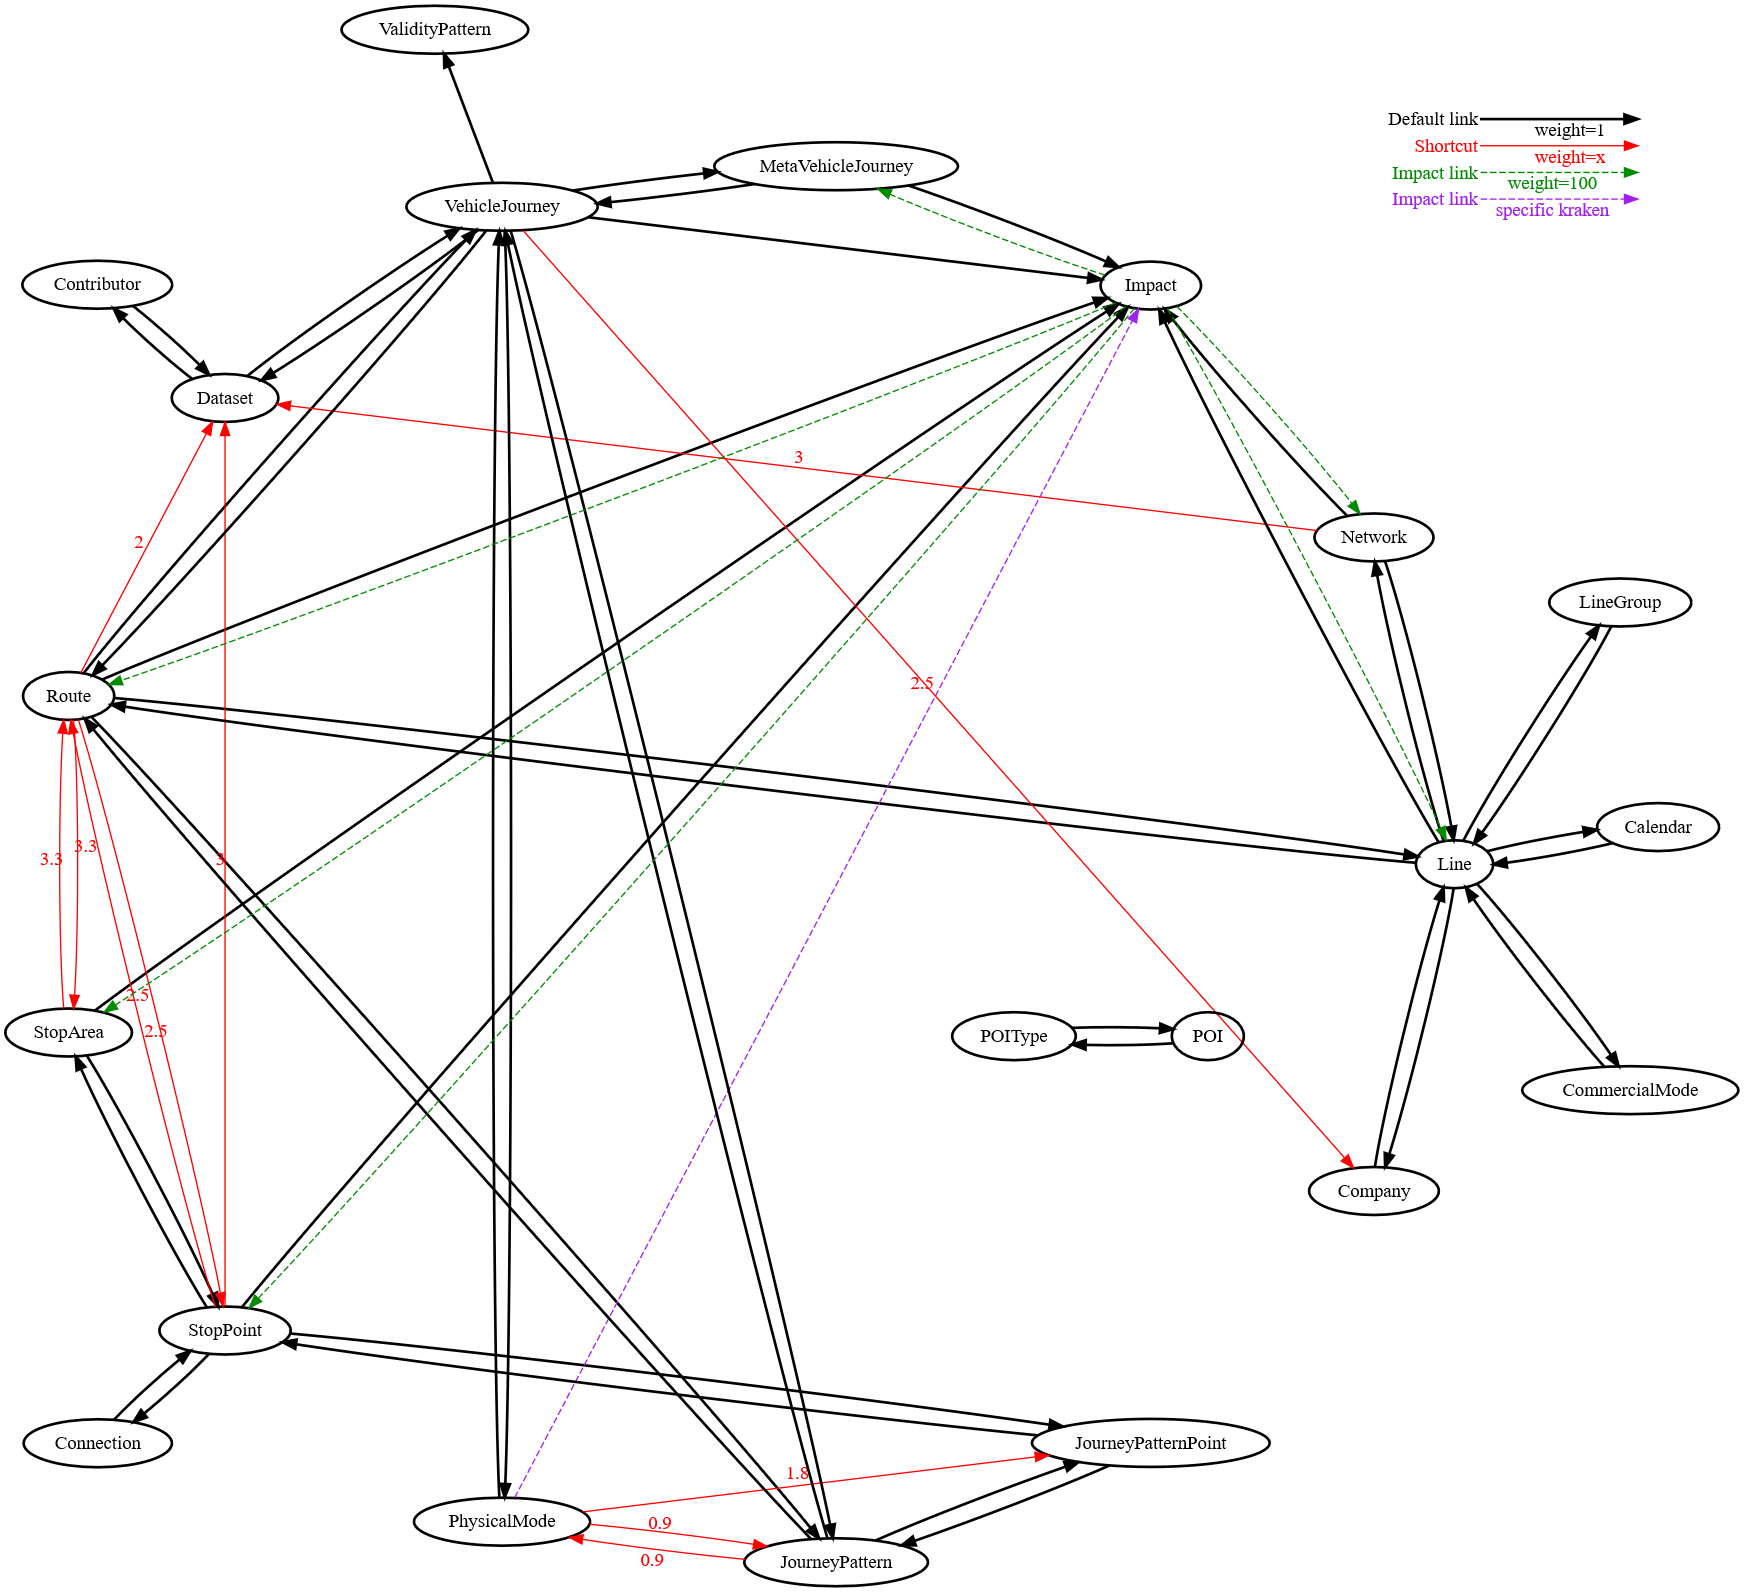
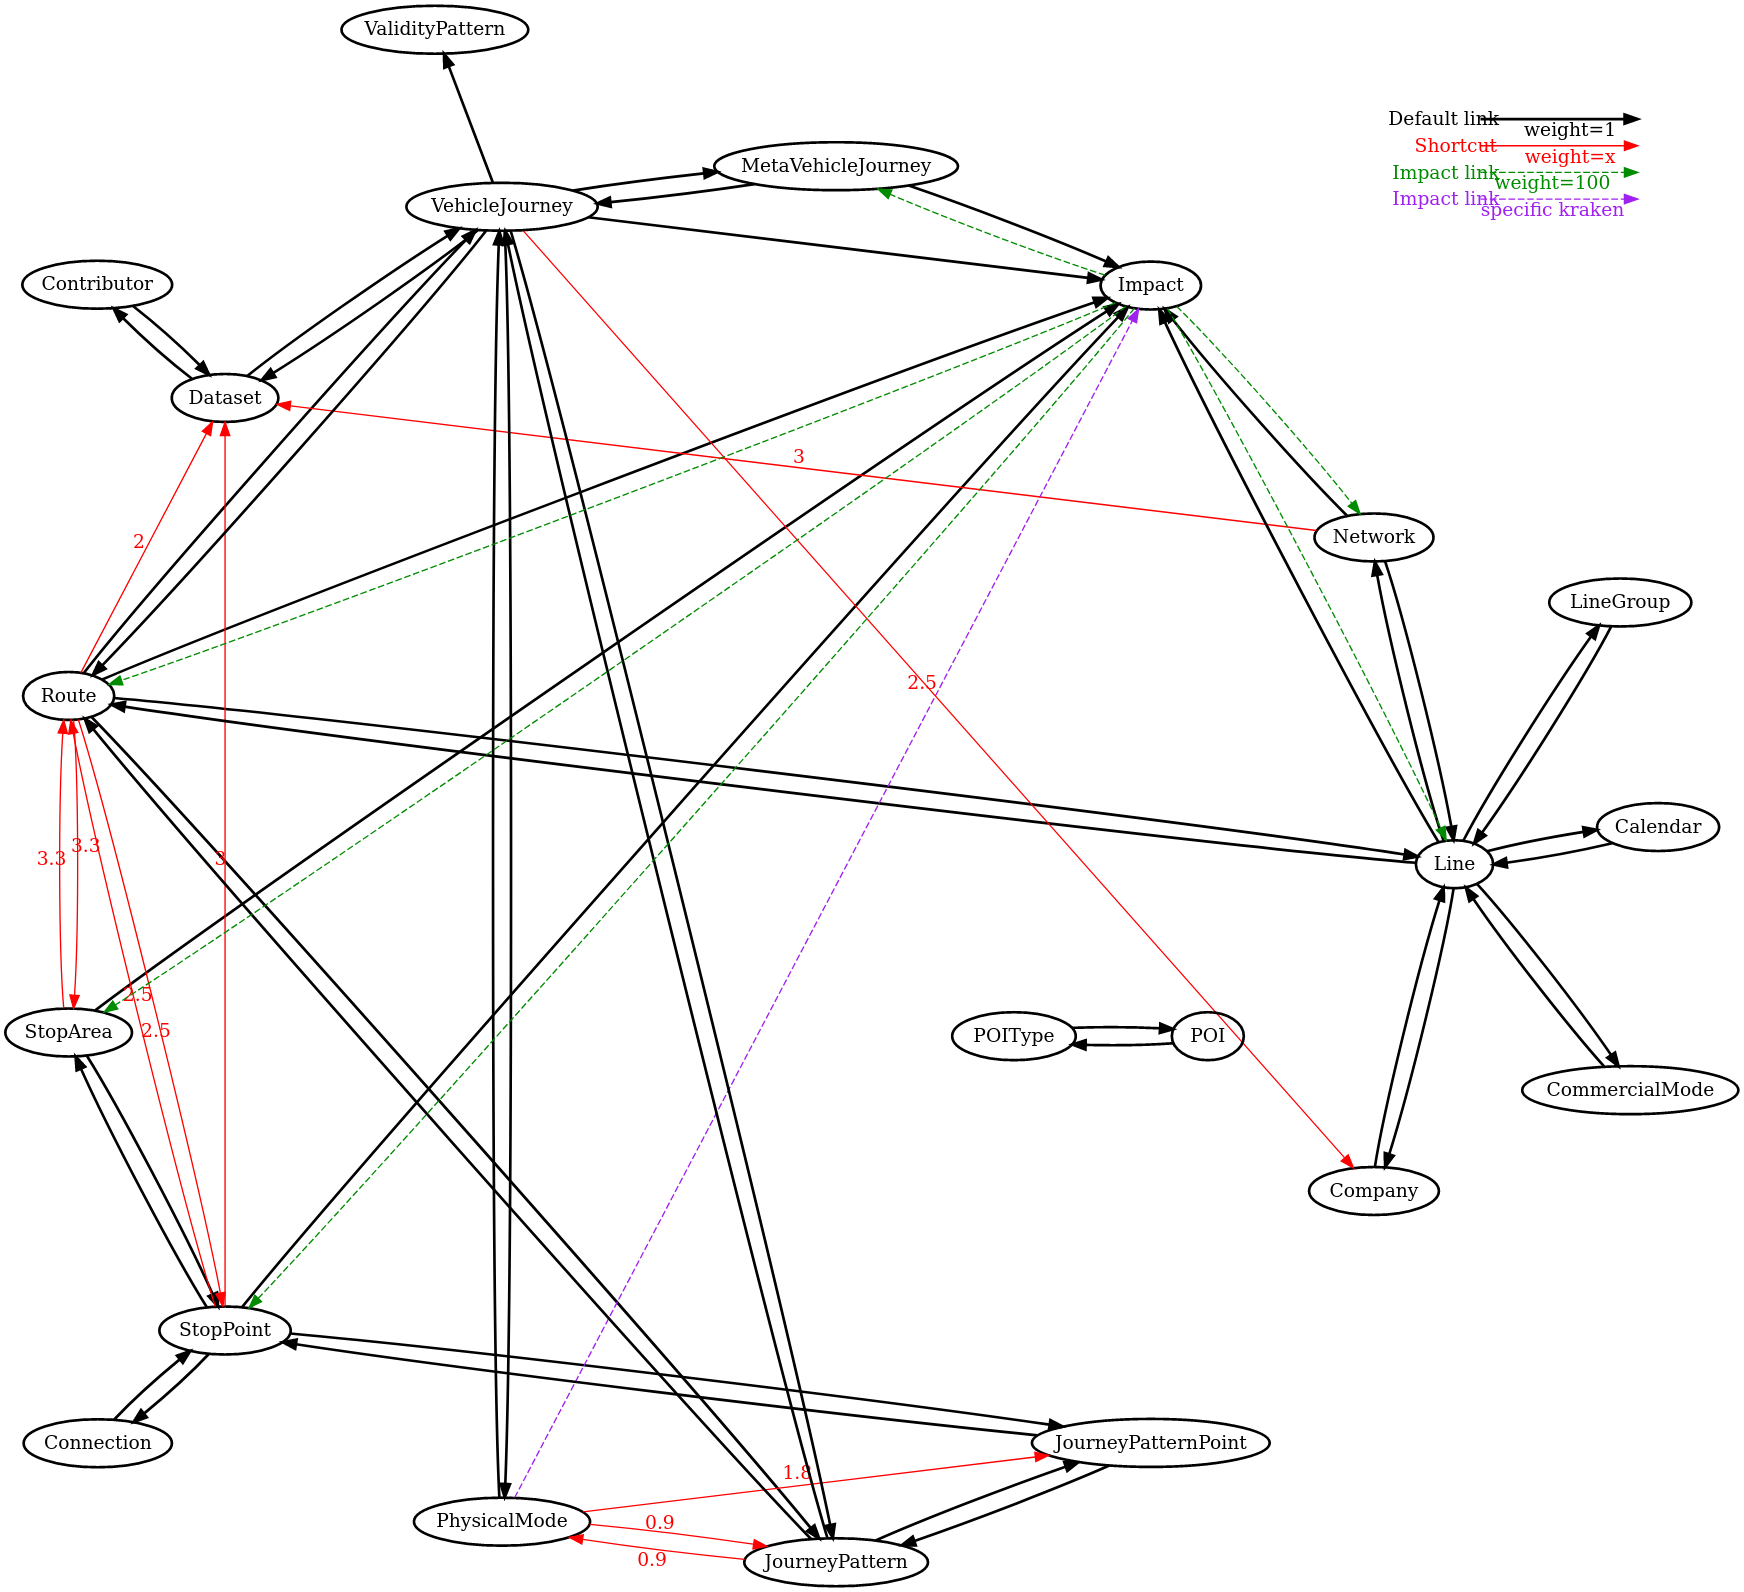
Diagram as well as link for ptref_grammar updated

diff --git a/documentation/rfc/ptref_grammar.md b/documentation/rfc/ptref_grammar.md
@@ -174,7 +174,8 @@ The graph is as follow (edges may have weight to avoid unwanted behavior):
 
 ![pt_graph](../diagrams/pt_graph.png)
 
-[edit_graph](https://dreampuf.github.io/GraphvizOnline/#%0Adigraph%20G%20%7B%0A%20%20%20%20layout%3D%22circo%22%0A%20%20%20%20subgraph%20cluster_0%20%7B%0A%20%20%20%20%20%20%20%20node%20%5Bstyle%3D%22bold%22%5D%0A%20%20%20%20%20%20%20%20edge%20%5Bstyle%3D%22bold%22%5D%0A%0A%20%20%20%20%20%20%20%20StopArea%20-%3E%20Route%20%5Blabel%3D%223.3%22%20fontcolor%3D%22red%22%20color%3D%22red%22%20style%3D%22normal%22%5D%0A%20%20%20%20%20%20%20%20StopArea%20-%3E%20StopPoint%0A%20%20%20%20%20%20%20%20Network%20-%3E%20Line%0A%20%20%20%20%20%20%20%20Company%20-%3E%20Line%0A%20%20%20%20%20%20%20%20CommercialMode%20-%3E%20Line%0A%20%20%20%20%20%20%20%20PhysicalMode%20-%3E%20VehicleJourney%0A%20%20%20%20%20%20%20%20PhysicalMode%20-%3E%20JourneyPattern%20%5Blabel%3D%220.9%22%20fontcolor%3D%22red%22%20color%3D%22red%22%20style%3D%22normal%22%5D%0A%20%20%20%20%20%20%20%20PhysicalMode%20-%3E%20JourneyPatternPoint%20%5Blabel%3D%221.8%22%20fontcolor%3D%22red%22%20color%3D%22red%22%20style%3D%22normal%22%5D%0A%20%20%20%20%20%20%20%20Line%20-%3E%20CommercialMode%0A%20%20%20%20%20%20%20%20Line%20-%3E%20Company%0A%20%20%20%20%20%20%20%20Line%20-%3E%20Network%0A%20%20%20%20%20%20%20%20Line%20-%3E%20Route%0A%20%20%20%20%20%20%20%20Route%20-%3E%20JourneyPattern%0A%20%20%20%20%20%20%20%20Route%20-%3E%20Line%0A%20%20%20%20%20%20%20%20Route%20-%3E%20VehicleJourney%0A%20%20%20%20%20%20%20%20Route%20-%3E%20StopPoint%20%5Blabel%3D%222.5%22%20fontcolor%3D%22red%22%20color%3D%22red%22%20style%3D%22normal%22%5D%0A%20%20%20%20%20%20%20%20Route%20-%3E%20StopArea%20%5Blabel%3D%223.3%22%20fontcolor%3D%22red%22%20color%3D%22red%22%20style%3D%22normal%22%5D%0A%20%20%20%20%20%20%20%20JourneyPattern%20-%3E%20Route%0A%20%20%20%20%20%20%20%20JourneyPattern%20-%3E%20JourneyPatternPoint%0A%20%20%20%20%20%20%20%20JourneyPattern%20-%3E%20VehicleJourney%0A%20%20%20%20%20%20%20%20JourneyPattern%20-%3E%20PhysicalMode%20%5Blabel%3D%220.9%22%20fontcolor%3D%22red%22%20color%3D%22red%22%20style%3D%22normal%22%5D%0A%20%20%20%20%20%20%20%20VehicleJourney%20-%3E%20Route%0A%20%20%20%20%20%20%20%20VehicleJourney%20-%3E%20JourneyPattern%0A%20%20%20%20%20%20%20%20VehicleJourney%20-%3E%20Company%20%5Blabel%3D%222.5%22%20fontcolor%3D%22red%22%20color%3D%22red%22%20style%3D%22normal%22%5D%0A%20%20%20%20%20%20%20%20VehicleJourney%20-%3E%20PhysicalMode%0A%20%20%20%20%20%20%20%20VehicleJourney%20-%3E%20ValidityPattern%0A%20%20%20%20%20%20%20%20VehicleJourney%20-%3E%20MetaVehicleJourney%0A%20%20%20%20%20%20%20%20VehicleJourney%20-%3E%20Dataset%0A%20%20%20%20%20%20%20%20JourneyPatternPoint%20-%3E%20JourneyPattern%0A%20%20%20%20%20%20%20%20JourneyPatternPoint%20-%3E%20StopPoint%0A%20%20%20%20%20%20%20%20StopPoint%20-%3E%20StopArea%0A%20%20%20%20%20%20%20%20StopPoint%20-%3E%20JourneyPatternPoint%0A%20%20%20%20%20%20%20%20StopPoint%20-%3E%20Connection%0A%20%20%20%20%20%20%20%20StopPoint%20-%3E%20Route%20%5Blabel%3D%222.5%22%20fontcolor%3D%22red%22%20color%3D%22red%22%20style%3D%22normal%22%5D%0A%20%20%20%20%20%20%20%20Connection%20-%3E%20StopPoint%0A%20%20%20%20%20%20%20%20POIType%20-%3E%20POI%0A%20%20%20%20%20%20%20%20POI%20-%3E%20POIType%0A%20%20%20%20%20%20%20%20Line%20-%3E%20Calendar%0A%20%20%20%20%20%20%20%20Calendar%20-%3E%20Line%0A%20%20%20%20%20%20%20%20Line%20-%3E%20LineGroup%0A%20%20%20%20%20%20%20%20LineGroup%20-%3E%20Line%0A%20%20%20%20%20%20%20%20MetaVehicleJourney%20-%3E%20VehicleJourney%0A%20%20%20%20%20%20%20%20Dataset%20-%3E%20Contributor%0A%20%20%20%20%20%20%20%20Dataset%20-%3E%20VehicleJourney%0A%20%20%20%20%20%20%20%20Contributor%20-%3E%20Dataset%0A%20%20%20%20%20%20%20%20Route%20-%3E%20Dataset%20%5Blabel%3D%222%22%20fontcolor%3D%22red%22%20color%3D%22red%22%20style%3D%22normal%22%5D%0A%20%20%20%20%20%20%20%20StopPoint%20-%3E%20Dataset%20%5Blabel%3D%223%22%20fontcolor%3D%22red%22%20color%3D%22red%22%20style%3D%22normal%22%5D%0A%20%20%20%20%20%20%20%20Network%20-%3E%20Dataset%20%5Blabel%3D%223%22%20fontcolor%3D%22red%22%20color%3D%22red%22%20style%3D%22normal%22%5D%0A%20%20%20%20%20%20%20%20StopPoint%20-%3E%20Impact%0A%20%20%20%20%20%20%20%20Line%20-%3E%20Impact%0A%20%20%20%20%20%20%20%20Route%20-%3E%20Impact%0A%20%20%20%20%20%20%20%20StopArea%20-%3E%20Impact%0A%20%20%20%20%20%20%20%20Network%20-%3E%20Impact%0A%20%20%20%20%20%20%20%20VehicleJourney%20-%3E%20Impact%0A%20%20%20%20%20%20%20%20MetaVehicleJourney%20-%3E%20Impact%0A%20%20%20%20%20%20%20%20Impact%20-%3E%20Network%20%20%5Bstyle%3D%22dashed%22%20fontcolor%3D%22green4%22%20color%3D%22green4%22%5D%0A%20%20%20%20%20%20%20%20Impact%20-%3E%20Line%20%20%5Bstyle%3D%22dashed%22%20fontcolor%3D%22green4%22%20color%3D%22green4%22%5D%0A%20%20%20%20%20%20%20%20Impact%20-%3E%20Route%20%20%5Bstyle%3D%22dashed%22%20fontcolor%3D%22green4%22%20color%3D%22green4%22%5D%0A%20%20%20%20%20%20%20%20Impact%20-%3E%20StopArea%20%20%5Bstyle%3D%22dashed%22%20fontcolor%3D%22green4%22%20color%3D%22green4%22%5D%0A%20%20%20%20%20%20%20%20Impact%20-%3E%20StopPoint%20%20%5Bstyle%3D%22dashed%22%20fontcolor%3D%22green4%22%20color%3D%22green4%22%5D%0A%20%20%20%20%20%20%20%20Impact%20-%3E%20MetaVehicleJourney%20%20%5Bstyle%3D%22dashed%22%20fontcolor%3D%22green4%22%20color%3D%22green4%22%5D%0A%20%20%20%20%7D%0A%0A%20%20%20%20subgraph%20cluster_1%20%7B%0A%20%20%20%20%20%20%20%20%23rank%3Dsink%0A%20%20%20%20%20%20%20%20%23rankdir%3DLR%0A%20%20%20%20%20%20%20%20node%20%5Bshape%3Dplaintext%5D%0A%20%20%20%20%20%20%20%20style%3D%22filled%22%0A%20%20%20%20%20%20%20%20style%3Dfilled%0A%09%09color%3Dlightgrey%0A%20%20%20%20%20%20%20%20%23label%20%3D%20%22Legend%22%3B%0A%20%20%20%20%20%20%20%20key%20%5Blabel%3D%3C%3Ctable%20border%3D%220%22%20cellpadding%3D%222%22%20cellspacing%3D%220%22%20cellborder%3D%220%22%3E%0A%20%20%20%20%20%20%20%20%20%20%3Ctr%3E%3Ctd%20align%3D%22right%22%20port%3D%22i1%22%3E%3Cfont%20color%3D%22black%22%3EDefault%20link%3C%2Ffont%3E%3C%2Ftd%3E%3C%2Ftr%3E%0A%20%20%20%20%20%20%20%20%20%20%3Ctr%3E%3Ctd%20align%3D%22right%22%20port%3D%22i2%22%3E%3Cfont%20color%3D%22red%22%3EShortcut%3C%2Ffont%3E%3C%2Ftd%3E%3C%2Ftr%3E%0A%20%20%20%20%20%20%20%20%20%20%3Ctr%3E%3Ctd%20align%3D%22right%22%20port%3D%22i3%22%3E%3Cfont%20color%3D%22green4%22%3EImpact%20link%3C%2Ffont%3E%3C%2Ftd%3E%3C%2Ftr%3E%0A%20%20%20%20%20%20%20%20%20%20%3C%2Ftable%3E%3E%5D%0A%20%20%20%20%20%20%20%20key2%20%5Blabel%3D%3C%3Ctable%20border%3D%220%22%20cellpadding%3D%222%22%20cellspacing%3D%220%22%20cellborder%3D%220%22%3E%0A%20%20%20%20%20%20%20%20%20%20%3Ctr%3E%3Ctd%20port%3D%22i1%22%3E%26nbsp%3B%3C%2Ftd%3E%3C%2Ftr%3E%0A%20%20%20%20%20%20%20%20%20%20%3Ctr%3E%3Ctd%20port%3D%22i2%22%3E%26nbsp%3B%3C%2Ftd%3E%3C%2Ftr%3E%0A%20%20%20%20%20%20%20%20%20%20%3Ctr%3E%3Ctd%20port%3D%22i3%22%3E%26nbsp%3B%3C%2Ftd%3E%3C%2Ftr%3E%0A%20%20%20%20%20%20%20%20%20%20%3C%2Ftable%3E%3E%5D%0A%20%20%20%20%20%20%20%20key%3Ai1%3Ae%20-%3E%20key2%3Ai1%3Aw%20%5Blabel%3D%22weight%3D1%22%20style%3D%22bold%22%5D%0A%20%20%20%20%20%20%20%20key%3Ai2%3Ae%20-%3E%20key2%3Ai2%3Aw%20%5Blabel%3D%22weight%3Dx%22%20fontcolor%3D%22red%22%20color%3D%22red%22%20style%3D%22normal%22%5D%0A%20%20%20%20%20%20%20%20key%3Ai3%3Ae%20-%3E%20key2%3Ai3%3Aw%20%5Blabel%3D%22weight%3D100%22%20style%3D%22dashed%22%20fontcolor%3D%22green4%22%20color%3D%22green4%22%5D%0A%20%20%20%20%20%20%7D%0A%20%20%0A%7D) (use _circo_ engine and format as _png_)
+[edit_graph](https://dreampuf.github.io/GraphvizOnline/#%0Adigraph%20G%20%7B%0A%20%20%20%20layout%3D%22circo%22%0A%20%20%20%20subgraph%20cluster_0%20%7B%0A%20%20%20%20%20%20%20%20node%20%5Bstyle%3D%22bold%22%5D%0A%20%20%20%20%20%20%20%20edge%20%5Bstyle%3D%22bold%22%5D%0A%0A%20%20%20%20%20%20%20%20StopArea%20-%3E%20Route%20%5Blabel%3D%223.3%22%20fontcolor%3D%22red%22%20color%3D%22red%22%20style%3D%22normal%22%5D%0A%20%20%20%20%20%20%20%20StopArea%20-%3E%20StopPoint%0A%20%20%20%20%20%20%20%20Network%20-%3E%20Line%0A%20%20%20%20%20%20%20%20Company%20-%3E%20Line%0A%20%20%20%20%20%20%20%20CommercialMode%20-%3E%20Line%0A%20%20%20%20%20%20%20%20PhysicalMode%20-%3E%20VehicleJourney%0A%20%20%20%20%20%20%20%20PhysicalMode%20-%3E%20JourneyPattern%20%5Blabel%3D%220.9%22%20fontcolor%3D%22red%22%20color%3D%22red%22%20style%3D%22normal%22%5D%0A%20%20%20%20%20%20%20%20PhysicalMode%20-%3E%20JourneyPatternPoint%20%5Blabel%3D%221.8%22%20fontcolor%3D%22red%22%20color%3D%22red%22%20style%3D%22normal%22%5D%0A%20%20%20%20%20%20%20%20Line%20-%3E%20CommercialMode%0A%20%20%20%20%20%20%20%20Line%20-%3E%20Company%0A%20%20%20%20%20%20%20%20Line%20-%3E%20Network%0A%20%20%20%20%20%20%20%20Line%20-%3E%20Route%0A%20%20%20%20%20%20%20%20Route%20-%3E%20JourneyPattern%0A%20%20%20%20%20%20%20%20Route%20-%3E%20Line%0A%20%20%20%20%20%20%20%20Route%20-%3E%20VehicleJourney%0A%20%20%20%20%20%20%20%20Route%20-%3E%20StopPoint%20%5Blabel%3D%222.5%22%20fontcolor%3D%22red%22%20color%3D%22red%22%20style%3D%22normal%22%5D%0A%20%20%20%20%20%20%20%20Route%20-%3E%20StopArea%20%5Blabel%3D%223.3%22%20fontcolor%3D%22red%22%20color%3D%22red%22%20style%3D%22normal%22%5D%0A%20%20%20%20%20%20%20%20JourneyPattern%20-%3E%20Route%0A%20%20%20%20%20%20%20%20JourneyPattern%20-%3E%20JourneyPatternPoint%0A%20%20%20%20%20%20%20%20JourneyPattern%20-%3E%20VehicleJourney%0A%20%20%20%20%20%20%20%20JourneyPattern%20-%3E%20PhysicalMode%20%5Blabel%3D%220.9%22%20fontcolor%3D%22red%22%20color%3D%22red%22%20style%3D%22normal%22%5D%0A%20%20%20%20%20%20%20%20VehicleJourney%20-%3E%20Route%0A%20%20%20%20%20%20%20%20VehicleJourney%20-%3E%20JourneyPattern%0A%20%20%20%20%20%20%20%20VehicleJourney%20-%3E%20Company%20%5Blabel%3D%222.5%22%20fontcolor%3D%22red%22%20color%3D%22red%22%20style%3D%22normal%22%5D%0A%20%20%20%20%20%20%20%20VehicleJourney%20-%3E%20PhysicalMode%0A%20%20%20%20%20%20%20%20VehicleJourney%20-%3E%20ValidityPattern%0A%20%20%20%20%20%20%20%20VehicleJourney%20-%3E%20MetaVehicleJourney%0A%20%20%20%20%20%20%20%20VehicleJourney%20-%3E%20Dataset%0A%20%20%20%20%20%20%20%20JourneyPatternPoint%20-%3E%20JourneyPattern%0A%20%20%20%20%20%20%20%20JourneyPatternPoint%20-%3E%20StopPoint%0A%20%20%20%20%20%20%20%20StopPoint%20-%3E%20StopArea%0A%20%20%20%20%20%20%20%20StopPoint%20-%3E%20JourneyPatternPoint%0A%20%20%20%20%20%20%20%20StopPoint%20-%3E%20Connection%0A%20%20%20%20%20%20%20%20StopPoint%20-%3E%20Route%20%5Blabel%3D%222.5%22%20fontcolor%3D%22red%22%20color%3D%22red%22%20style%3D%22normal%22%5D%0A%20%20%20%20%20%20%20%20Connection%20-%3E%20StopPoint%0A%20%20%20%20%20%20%20%20POIType%20-%3E%20POI%0A%20%20%20%20%20%20%20%20POI%20-%3E%20POIType%0A%20%20%20%20%20%20%20%20Line%20-%3E%20Calendar%0A%20%20%20%20%20%20%20%20Calendar%20-%3E%20Line%0A%20%20%20%20%20%20%20%20Line%20-%3E%20LineGroup%0A%20%20%20%20%20%20%20%20LineGroup%20-%3E%20Line%0A%20%20%20%20%20%20%20%20MetaVehicleJourney%20-%3E%20VehicleJourney%0A%20%20%20%20%20%20%20%20Dataset%20-%3E%20Contributor%0A%20%20%20%20%20%20%20%20Dataset%20-%3E%20VehicleJourney%0A%20%20%20%20%20%20%20%20Contributor%20-%3E%20Dataset%0A%20%20%20%20%20%20%20%20Route%20-%3E%20Dataset%20%5Blabel%3D%222%22%20fontcolor%3D%22red%22%20color%3D%22red%22%20style%3D%22normal%22%5D%0A%20%20%20%20%20%20%20%20StopPoint%20-%3E%20Dataset%20%5Blabel%3D%223%22%20fontcolor%3D%22red%22%20color%3D%22red%22%20style%3D%22normal%22%5D%0A%20%20%20%20%20%20%20%20Network%20-%3E%20Dataset%20%5Blabel%3D%223%22%20fontcolor%3D%22red%22%20color%3D%22red%22%20style%3D%22normal%22%5D%0A%20%20%20%20%20%20%20%20StopPoint%20-%3E%20Impact%0A%20%20%20%20%20%20%20%20Line%20-%3E%20Impact%0A%20%20%20%20%20%20%20%20Route%20-%3E%20Impact%0A%20%20%20%20%20%20%20%20StopArea%20-%3E%20Impact%0A%20%20%20%20%20%20%20%20Network%20-%3E%20Impact%0A%20%20%20%20%20%20%20%20VehicleJourney%20-%3E%20Impact%0A%20%20%20%20%20%20%20%20MetaVehicleJourney%20-%3E%20Impact%0A%20%20%20%20%20%20%20%20Impact%20-%3E%20Network%20%20%5Bstyle%3D%22dashed%22%20fontcolor%3D%22green4%22%20color%3D%22green4%22%5D%0A%20%20%20%20%20%20%20%20Impact%20-%3E%20Line%20%20%5Bstyle%3D%22dashed%22%20fontcolor%3D%22green4%22%20color%3D%22green4%22%5D%0A%20%20%20%20%20%20%20%20Impact%20-%3E%20Route%20%20%5Bstyle%3D%22dashed%22%20fontcolor%3D%22green4%22%20color%3D%22green4%22%5D%0A%20%20%20%20%20%20%20%20Impact%20-%3E%20StopArea%20%20%5Bstyle%3D%22dashed%22%20fontcolor%3D%22green4%22%20color%3D%22green4%22%5D%0A%20%20%20%20%20%20%20%20Impact%20-%3E%20StopPoint%20%20%5Bstyle%3D%22dashed%22%20fontcolor%3D%22green4%22%20color%3D%22green4%22%5D%0A%20%20%20%20%20%20%20%20Impact%20-%3E%20MetaVehicleJourney%20%20%5Bstyle%3D%22dashed%22%20fontcolor%3D%22green4%22%20color%3D%22green4%22%5D%0A%20%20%20%20%20%20%20%20PhysicalMode%20-%3E%20Impact%20%20%5Bstyle%3D%22dashed%22%20fontcolor%3D%22purple%22%20color%3D%22purple%22%5D%0A%20%20%20%20%7D%0A%0A%20%20%20%20subgraph%20cluster_1%20%7B%0A%20%20%20%20%20%20%20%20%23rank%3Dsink%0A%20%20%20%20%20%20%20%20%23rankdir%3DLR%0A%20%20%20%20%20%20%20%20node%20%5Bshape%3Dplaintext%5D%0A%20%20%20%20%20%20%20%20style%3D%22filled%22%0A%20%20%20%20%20%20%20%20style%3Dfilled%0A%09%09color%3Dlightgrey%0A%20%20%20%20%20%20%20%20%23label%20%3D%20%22Legend%22%3B%0A%20%20%20%20%20%20%20%20key%20%5Blabel%3D%3C%3Ctable%20border%3D%220%22%20cellpadding%3D%222%22%20cellspacing%3D%220%22%20cellborder%3D%220%22%3E%0A%20%20%20%20%20%20%20%20%20%20%3Ctr%3E%3Ctd%20align%3D%22right%22%20port%3D%22i1%22%3E%3Cfont%20color%3D%22black%22%3EDefault%20link%3C%2Ffont%3E%3C%2Ftd%3E%3C%2Ftr%3E%0A%20%20%20%20%20%20%20%20%20%20%3Ctr%3E%3Ctd%20align%3D%22right%22%20port%3D%22i2%22%3E%3Cfont%20color%3D%22red%22%3EShortcut%3C%2Ffont%3E%3C%2Ftd%3E%3C%2Ftr%3E%0A%20%20%20%20%20%20%20%20%20%20%3Ctr%3E%3Ctd%20align%3D%22right%22%20port%3D%22i3%22%3E%3Cfont%20color%3D%22green4%22%3EImpact%20link%3C%2Ffont%3E%3C%2Ftd%3E%3C%2Ftr%3E%0A%20%20%20%20%20%20%20%20%20%20%3Ctr%3E%3Ctd%20align%3D%22right%22%20port%3D%22i4%22%3E%3Cfont%20color%3D%22purple%22%3EImpact%20link%3C%2Ffont%3E%3C%2Ftd%3E%3C%2Ftr%3E%0A%20%20%20%20%20%20%20%20%20%20%3C%2Ftable%3E%3E%5D%0A%20%20%20%20%20%20%20%20key2%20%5Blabel%3D%3C%3Ctable%20border%3D%220%22%20cellpadding%3D%222%22%20cellspacing%3D%220%22%20cellborder%3D%220%22%3E%0A%20%20%20%20%20%20%20%20%20%20%3Ctr%3E%3Ctd%20port%3D%22i1%22%3E%26nbsp%3B%3C%2Ftd%3E%3C%2Ftr%3E%0A%20%20%20%20%20%20%20%20%20%20%3Ctr%3E%3Ctd%20port%3D%22i2%22%3E%26nbsp%3B%3C%2Ftd%3E%3C%2Ftr%3E%0A%20%20%20%20%20%20%20%20%20%20%3Ctr%3E%3Ctd%20port%3D%22i3%22%3E%26nbsp%3B%3C%2Ftd%3E%3C%2Ftr%3E%0A%20%20%20%20%20%20%20%20%20%20%3Ctr%3E%3Ctd%20port%3D%22i4%22%3E%26nbsp%3B%3C%2Ftd%3E%3C%2Ftr%3E%0A%20%20%20%20%20%20%20%20%20%20%3C%2Ftable%3E%3E%5D%0A%20%20%20%20%20%20%20%20key%3Ai1%3Ae%20-%3E%20key2%3Ai1%3Aw%20%5Blabel%3D%22weight%3D1%22%20style%3D%22bold%22%5D%0A%20%20%20%20%20%20%20%20key%3Ai2%3Ae%20-%3E%20key2%3Ai2%3Aw%20%5Blabel%3D%22weight%3Dx%22%20fontcolor%3D%22red%22%20color%3D%22red%22%20style%3D%22normal%22%5D%0A%20%20%20%20%20%20%20%20key%3Ai3%3Ae%20-%3E%20key2%3Ai3%3Aw%20%5Blabel%3D%22weight%3D100%22%20style%3D%22dashed%22%20fontcolor%3D%22green4%22%20color%3D%22green4%22%5D%0A%20%20%20%20%20%20%20%20key%3Ai4%3Ae%20-%3E%20key2%3Ai4%3Aw%20%5Blabel%3D%22specific%20kraken%22%20style%3D%22dashed%22%20fontcolor%3D%22purple%22%20color%3D%22purple%22%5D%0A%20%20%20%20%20%20%7D%0A%20%20%0A%7D
+) (use _circo_ engine and format as _png_)
 
 ## Advanced examples
 
